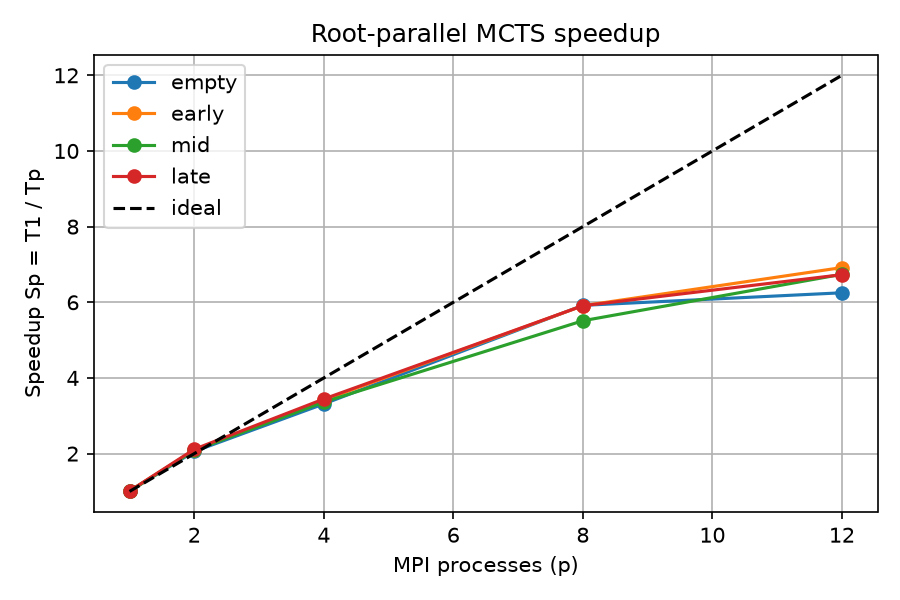
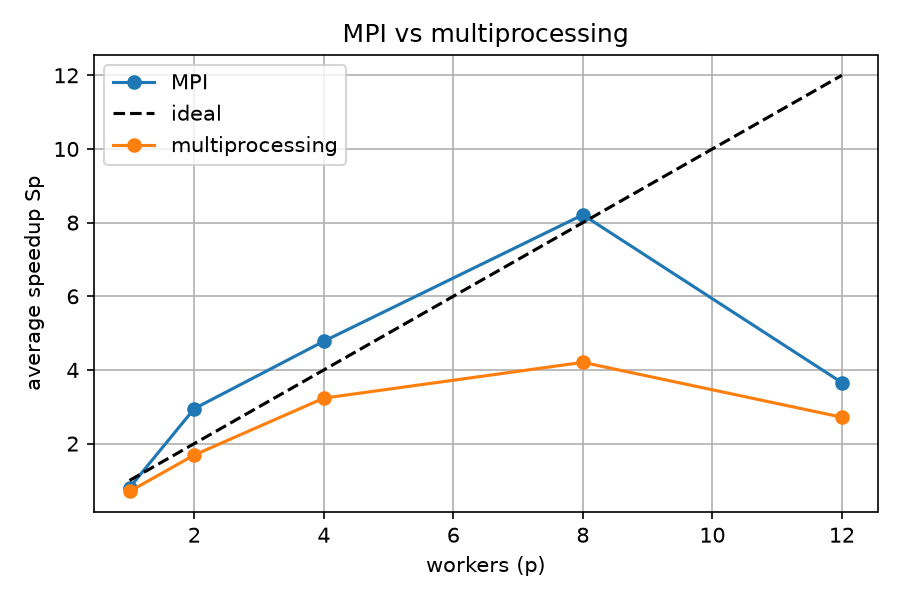
Add multiprocessing root-parallel MCTS and master analysis

diff --git a/analyze.py b/analyze.py
@@ -1,4 +1,4 @@
-import csv
+import csv, os
 import matplotlib
 matplotlib.use("Agg")
 import matplotlib.pyplot as plt
@@ -9,37 +9,56 @@ def read(path):
         return list(csv.DictReader(f))
 
 
-seq = {r["position"]: float(r["mean_time_s"]) for r in read("results/sequential.csv")}
-mpi = {}
-for r in read("results/mpi.csv"):
-    mpi[(int(r["p"]), r["position"])] = float(r["mean_time_s"])   # last run wins
+def load(path):
+    d = {}
+    for r in read(path):                      # last run wins
+        d[(int(r["p"]), r["position"])] = (float(r["mean_time_s"]), float(r["std_s"]), int(r["n_sim"]))
+    return d
 
-ps = sorted({p for p, _ in mpi})
-rows = [["position", "p", "Tp_s", "Sp", "Ep_percent", "KarpFlatt"]]
 
-print(f"{'position':8s} {'p':>3s} {'Tp(s)':>8s} {'Sp':>6s} {'Ep(%)':>7s} {'KF':>7s}")
-for pos, t1 in seq.items():
-    for p in ps:
-        tp = mpi[(p, pos)]
-        sp = t1 / tp
-        ep = sp / p * 100
-        kf = (1 / sp - 1 / p) / (1 - 1 / p) if p > 1 else float("nan")
-        print(f"{pos:8s} {p:3d} {tp:8.3f} {sp:6.2f} {ep:7.1f} {kf:7.3f}")
-        rows.append([pos, p, round(tp, 4), round(sp, 3), round(ep, 1), round(kf, 4)])
+seq = {r["position"]: (float(r["mean_time_s"]), float(r["std_s"]), int(r["n_sim"]))
+       for r in read("results/sequential.csv")}
+methods = {name: load(path) for name, path in
+           (("MPI", "results/mpi.csv"), ("multiprocessing", "results/mp.csv"))
+           if os.path.exists(path)}
 
-with open("results/summary.csv", "w", newline="") as f:
+header = ["method", "position", "p", "Tp_s", "std_s", "NPS", "Sp", "Ep_percent",
+          "KarpFlatt_ep", "Amdahl_bound", "Latency_ms"]
+rows = [header]
+
+
+def add(method, pos, p, tp, sd, n, t1):
+    sp = t1 / tp
+    ep = sp / p * 100
+    if p > 1:
+        kf = (1 / sp - 1 / p) / (1 - 1 / p)
+        kf_s = round(kf, 4)
+        bound = round(1 / kf, 1) if kf > 0 else "NA"
+    else:
+        kf_s, bound = "NA", "NA"
+    rows.append([method, pos, p, round(tp, 4), round(sd, 4), round(n / tp),
+                 round(sp, 3), round(ep, 1), kf_s, bound, round(tp * 1000, 1)])
+
+
+for pos, (t1, sd, n) in seq.items():
+    add("sequential", pos, 1, t1, sd, n, t1)
+    for name, data in methods.items():
+        for p in sorted({p for p, _ in data}):
+            tp, sd2, n2 = data[(p, pos)]
+            add(name, pos, p, tp, sd2, n2, t1)
+
+with open("results/master.csv", "w", newline="") as f:
     csv.writer(f).writerows(rows)
+for r in rows:
+    print("{:16s}{:8s}{:>4}{:>9}{:>8}{:>8}{:>7}{:>8}{:>8}{:>8}{:>9}".format(*map(str, r)))
 
-# chart: speedup vs processes, with the ideal line
 plt.figure(figsize=(6, 4))
-for pos, t1 in seq.items():
-    plt.plot(ps, [t1 / mpi[(p, pos)] for p in ps], marker="o", label=pos)
-plt.plot(ps, ps, "k--", label="ideal")
-plt.xlabel("MPI processes (p)")
-plt.ylabel("Speedup Sp = T1 / Tp")
-plt.title("Root-parallel MCTS speedup")
-plt.legend()
-plt.grid(True)
-plt.tight_layout()
+for name, data in methods.items():
+    ps = sorted({p for p, _ in data})
+    avg = [sum(seq[pos][0] / data[(p, pos)][0] for pos in seq) / len(seq) for p in ps]
+    plt.plot(ps, avg, marker="o", label=name)
+    plt.plot(ps, ps, "k--", label="ideal") if name == list(methods)[0] else None
+plt.xlabel("workers (p)"); plt.ylabel("average speedup Sp")
+plt.title("MPI vs multiprocessing"); plt.legend(); plt.grid(True); plt.tight_layout()
 plt.savefig("results/speedup.png", dpi=150)
-print("Saved results/summary.csv and results/speedup.png")
+print("Saved results/master.csv and results/speedup.png")

diff --git a/mp_benchmark.py b/mp_benchmark.py
@@ -1,0 +1,35 @@
+import csv, os, statistics, time
+from multiprocessing import Pool
+from board import Board
+from mp_mcts import mp_mcts
+from benchmark import POSITIONS, make_position
+
+N_SIM = 10000
+REPEATS = 5
+PROCS = [1, 2, 4, 8, 12]
+
+
+def main():
+    os.makedirs("results", exist_ok=True)
+    new = not os.path.exists("results/mp.csv")
+    with open("results/mp.csv", "a", newline="") as f:
+        w = csv.writer(f)
+        if new:
+            w.writerow(["p", "position", "n_sim", "mean_time_s", "std_s", "nps"])
+        for p in PROCS:
+            with Pool(p) as pool:
+                mp_mcts(Board(), 200 * p, 0, pool, p)           # warm-up, not timed
+                for name, moves in POSITIONS.items():
+                    pos = make_position(moves)
+                    times = []
+                    for rep in range(REPEATS):
+                        t0 = time.perf_counter()
+                        mp_mcts(pos, N_SIM, rep, pool, p)
+                        times.append(time.perf_counter() - t0)
+                    mean, sd = statistics.mean(times), statistics.stdev(times)
+                    print(f"p={p:2d} {name:6s} Tp={mean:7.3f}s +- {sd:.3f}  NPS={N_SIM/mean:9.0f}")
+                    w.writerow([p, name, N_SIM, round(mean, 4), round(sd, 4), round(N_SIM / mean)])
+
+
+if __name__ == "__main__":      # REQUIRED on Windows, or it starts processes endlessly
+    main()

diff --git a/mp_mcts.py b/mp_mcts.py
@@ -1,0 +1,24 @@
+from mcts import mcts
+
+
+def _worker(args):
+    board, n, seed = args
+    _, visits = mcts(board, n, seed=seed)
+    return visits
+
+
+def mp_mcts(board, n_sim, base_seed, pool, p):
+    """Root parallelization with a process pool."""
+    jobs = []
+    for k in range(p):
+        local = n_sim // p + (1 if k < n_sim % p else 0)
+        if local > 0:
+            jobs.append((board, local, base_seed + k))   # distinct seed per worker
+
+    results = pool.map(_worker, jobs)                    # run in parallel
+
+    total = {}
+    for visits in results:                               # REDUCE: sum root-child visits
+        for move, n in visits.items():
+            total[move] = total.get(move, 0) + n
+    return max(total, key=total.get)

diff --git a/test_mp.py b/test_mp.py
@@ -1,0 +1,14 @@
+from multiprocessing import Pool
+from board import Board, SIZE
+from mp_mcts import mp_mcts
+
+def idx(r, c): return r * SIZE + c
+
+if __name__ == "__main__":
+    b = Board()
+    for bm, wm in [((7,3),(0,0)), ((7,4),(0,2)), ((7,5),(0,4)), ((7,6),(0,6))]:
+        b.play(idx(*bm)); b.play(idx(*wm))
+    with Pool(4) as pool:
+        move = mp_mcts(b, 5000, 0, pool, 4)
+    assert move in (idx(7, 2), idx(7, 7)), divmod(move, SIZE)
+    print("multiprocessing test passed")

diff --git a/README.md b/README.md
@@ -5,3 +5,9 @@ Parallel MCTS for Gomoku - IUB Parallel Programming project.
     python play.py
     python benchmark.py
     python test_gomoku.py
+
+    mpiexec -n 4 python mpi_play.py
+    mpiexec -n 4 python mpi_benchmark.py
+
+    python -c "import os, platform; print(os.cpu_count(), platform.processor())"
+    12 Intel64 Family 6 Model 154 Stepping 4, GenuineIntel
